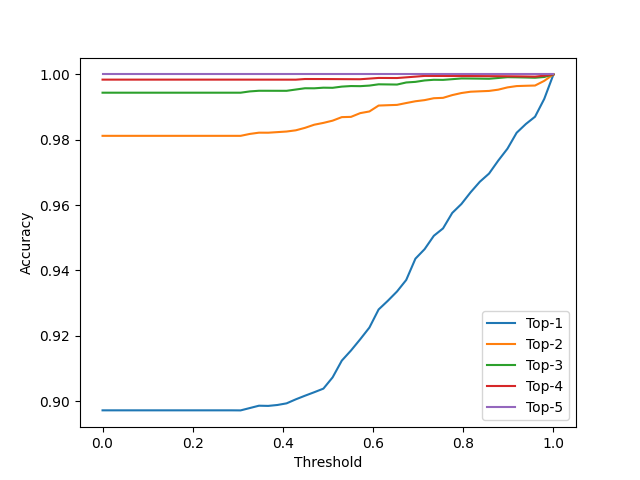
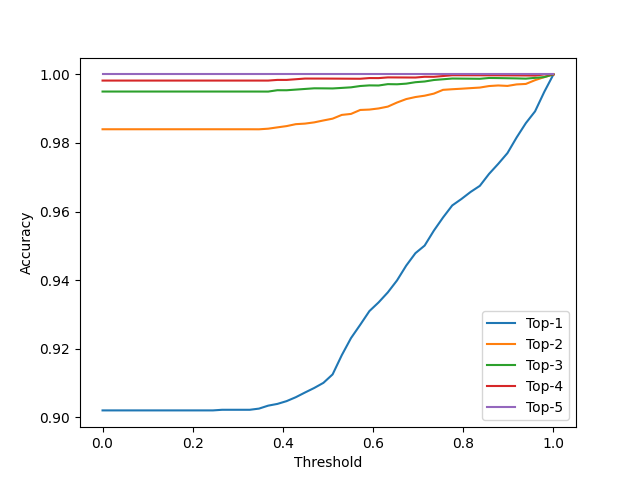
Final Fashion-MNIST model

diff --git a/fashion_mnist.py b/fashion_mnist.py
@@ -1,8 +1,8 @@
 import numpy as np
 import tensorflow as tf
 from tensorflow import keras
-from sklearn.metrics import DetCurveDisplay
 import matplotlib.pyplot as plt
+from keras.optimizers import SGD
 
 # Get Fashion MNIST dataset
 '''
@@ -84,22 +84,22 @@ print()
 
 
 
-
-print("\nTraining model")
-# normalization
+# preprocess & normalization
 train_x = train_x / 255.0
 test_x = test_x / 255.0
 
-# this one uses cnn: https://machinelearningmastery.com/how-to-develop-a-cnn-from-scratch-for-fashion-mnist-clothing-classification/
 
-# this is baseline model from https://www.kaggle.com/code/arunkumarramanan/awesome-cv-with-fashion-mnist-classification/notebook
-model = keras.Sequential([
-    keras.layers.Flatten(input_shape=(28, 28)),
-    keras.layers.Dense(128, activation=tf.nn.relu),
-    keras.layers.Dense(10, activation=tf.nn.softmax)
-])
-model.compile(optimizer='adam', loss='sparse_categorical_crossentropy', metrics=['accuracy'])
-model.fit(train_x, train_y, epochs=5)
+
+
+
+
+print("\nTraining model")
+model = keras.Sequential()
+model.add(keras.layers.Flatten(input_shape=(28, 28)))
+model.add(keras.layers.Dense(128, activation=tf.nn.relu))
+model.add(keras.layers.Dense(10, activation=tf.nn.softmax))
+model.compile(optimizer=SGD(lr=0.01, momentum=0.9), loss='sparse_categorical_crossentropy', metrics=['accuracy'])
+model.fit(train_x, train_y, epochs=10)
 
 
 
